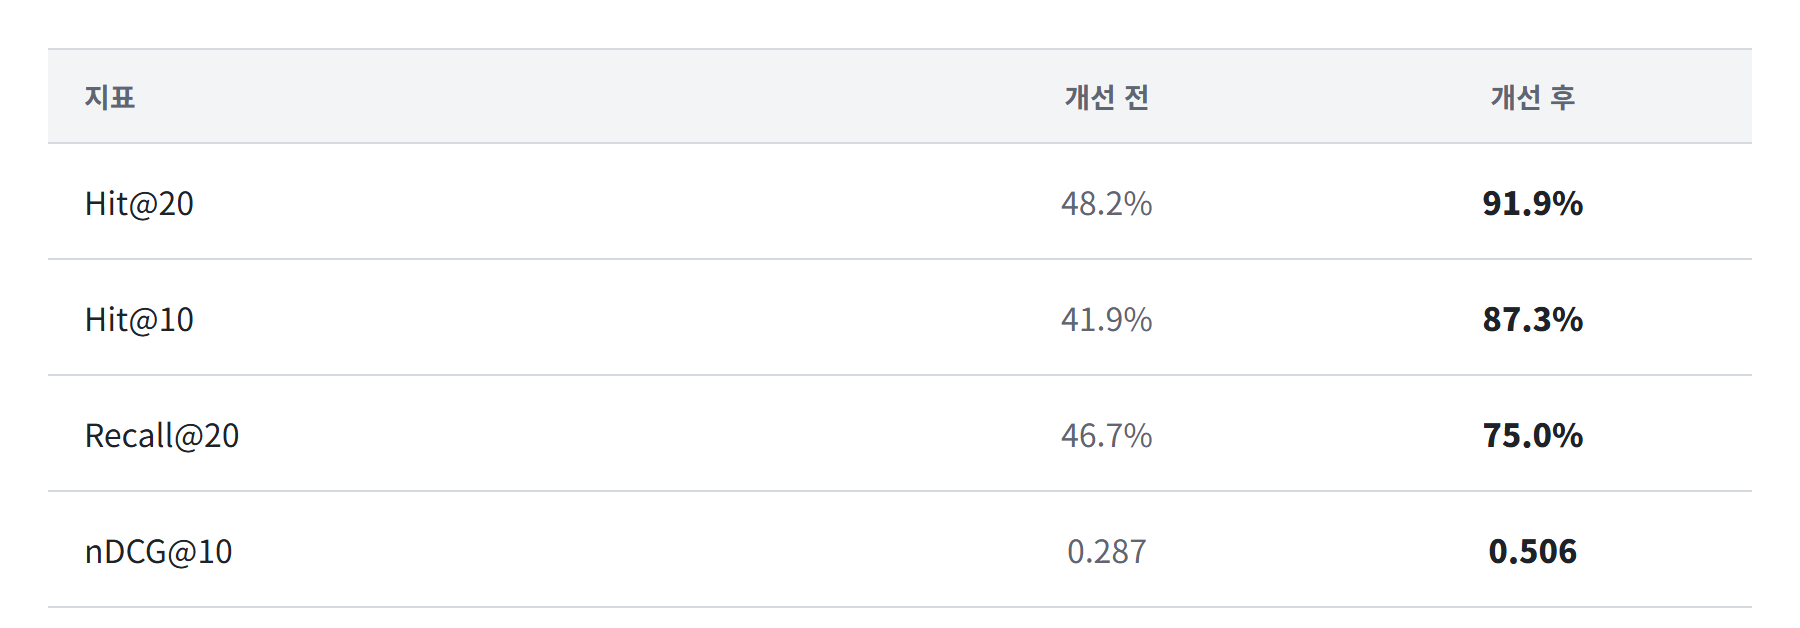
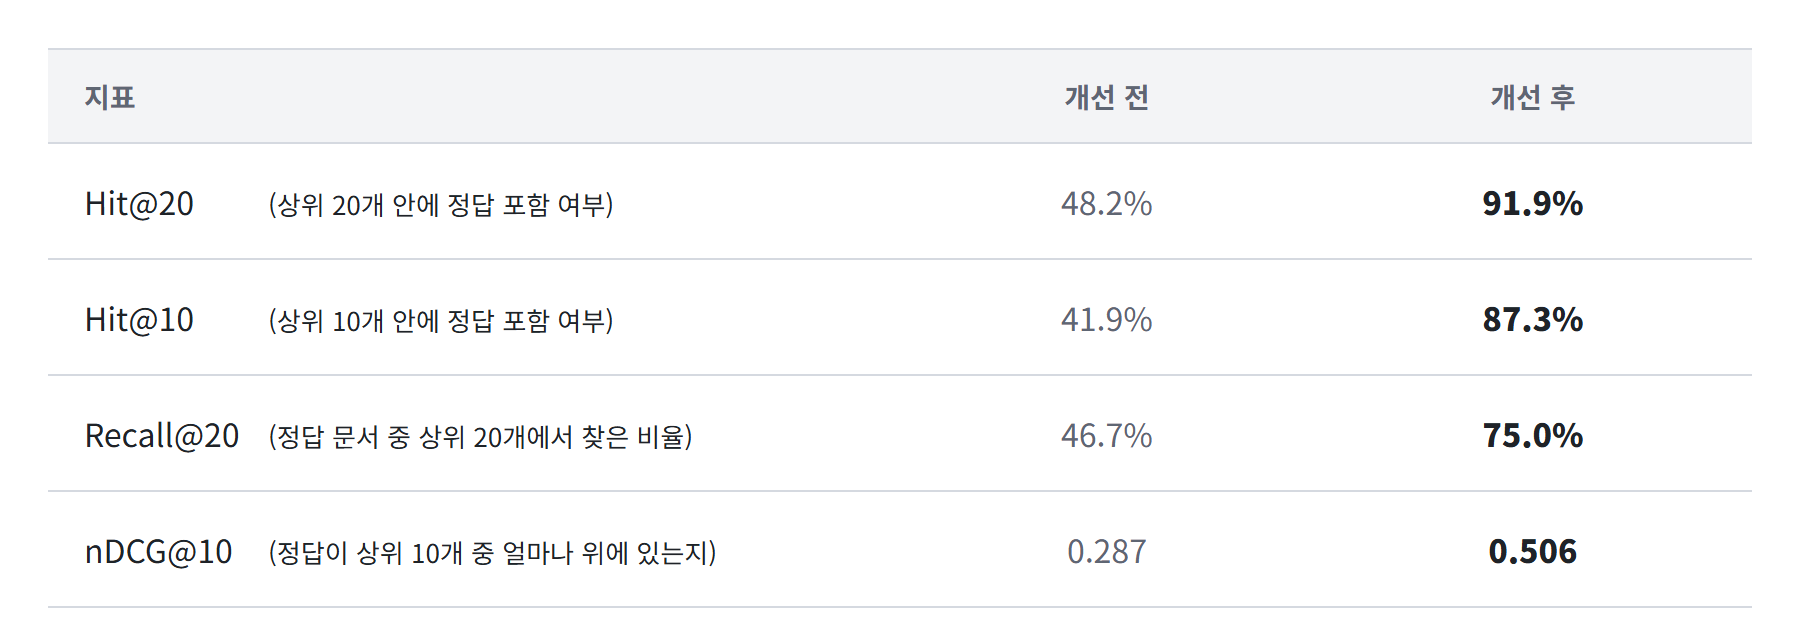
docs: 검색 품질 비교 표에 지표 설명 추가
지표 이름 옆에 각 지표가 무엇을 재는지 괄호로 적고, 설명 시작 위치를 행마다 맞췄다.

diff --git a/docs/images/retrieval-table.html b/docs/images/retrieval-table.html
@@ -23,6 +23,8 @@
   th:first-child, td:first-child { text-align: left; width: 50%; }
   th, td { text-align: center; }
   td { padding: 17px 18px; border-bottom: 1px solid #D5D9E0; }
+  td .name { display: inline-block; width: 92px; }
+  td .desc { font-size: 13px; }
   td.before { color: #5F6673; }
   td.after { font-weight: 800; }
 </style>
@@ -33,10 +35,10 @@
       <tr><th>지표</th><th>개선 전</th><th>개선 후</th></tr>
     </thead>
     <tbody>
-      <tr><td>Hit@20</td><td class="before">48.2%</td><td class="after">91.9%</td></tr>
-      <tr><td>Hit@10</td><td class="before">41.9%</td><td class="after">87.3%</td></tr>
-      <tr><td>Recall@20</td><td class="before">46.7%</td><td class="after">75.0%</td></tr>
-      <tr><td>nDCG@10</td><td class="before">0.287</td><td class="after">0.506</td></tr>
+      <tr><td><span class="name">Hit@20</span><span class="desc">(상위 20개 안에 정답 포함 여부)</span></td><td class="before">48.2%</td><td class="after">91.9%</td></tr>
+      <tr><td><span class="name">Hit@10</span><span class="desc">(상위 10개 안에 정답 포함 여부)</span></td><td class="before">41.9%</td><td class="after">87.3%</td></tr>
+      <tr><td><span class="name">Recall@20</span><span class="desc">(정답 문서 중 상위 20개에서 찾은 비율)</span></td><td class="before">46.7%</td><td class="after">75.0%</td></tr>
+      <tr><td><span class="name">nDCG@10</span><span class="desc">(정답이 상위 10개 중 얼마나 위에 있는지)</span></td><td class="before">0.287</td><td class="after">0.506</td></tr>
     </tbody>
   </table>
 </body>
